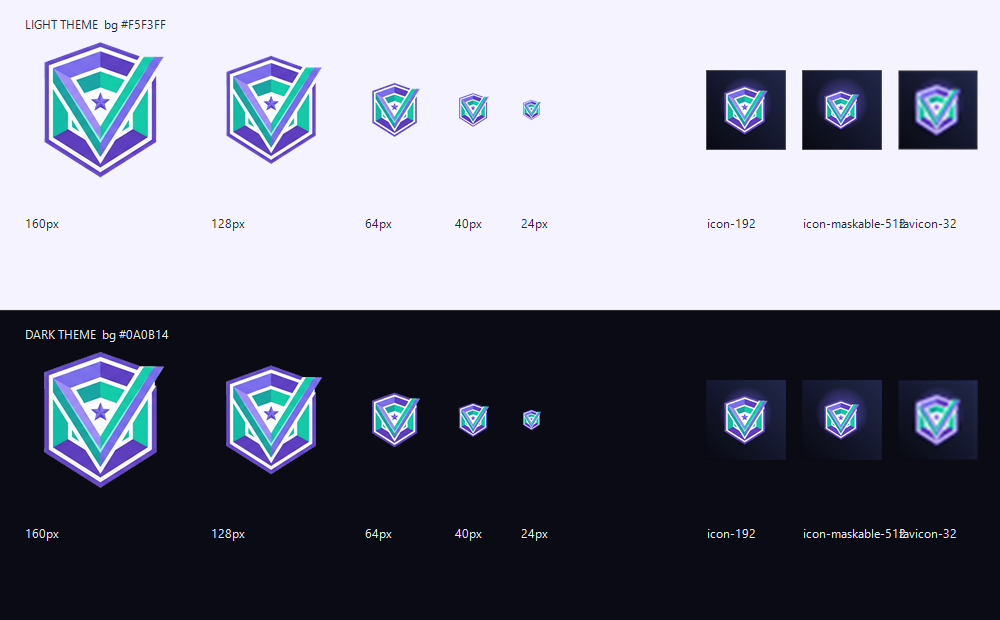
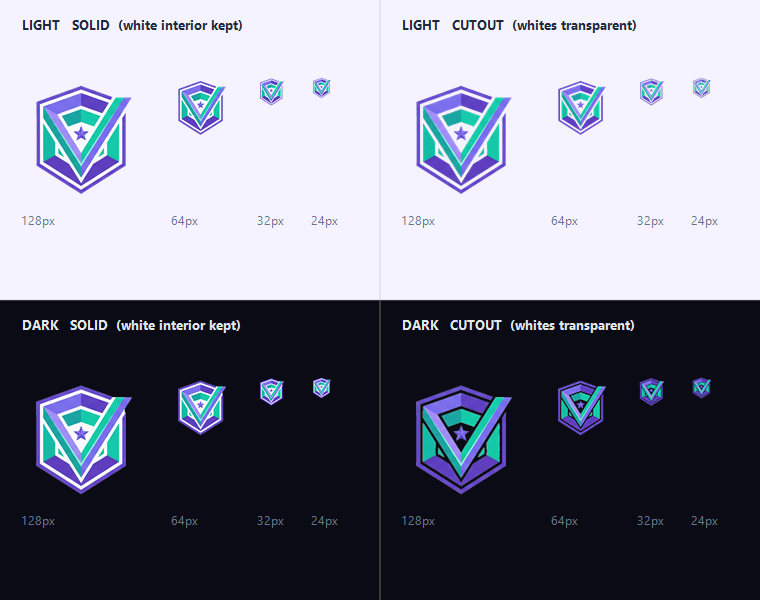
brand: add CUTOUT mark variant, wire navbar/splash to it, bump sw v27
The shield's interior is pure white in the source, the same colour as the washed background it sat on, so the keyed mark kept an opaque interior. Run() now builds both variants from one geometry so the outlines register exactly:

  SOLID  - interior stays opaque, reads as a badge (favicon + app icons)

  CUTOUT - light pixels punched out, page background shows through (navbar + splash)

preview.png is now a SOLID-vs-CUTOUT decision sheet on both themes at 128/64/32/24px. Flipping the navbar back to SOLID is a two-path change in index.html plus a CACHE_NAME bump, documented in brand/README.md.

Also: BrandBuild now prefers a veripresenx-master.png master when present (a real alpha channel beats inferring a mask from a flattened JPEG); fix DrawString arg order in the sheet renderer; MD040/MD060 lint in both brand READMEs.

diff --git a/index.html b/index.html
@@ -19,7 +19,7 @@
 
   <!-- SPLASH SCREEN -->
   <div id="splashScreen">
-    <img src="/brand/mark-256.png" alt="VeriPresenX" class="splash-logo" />
+    <img src="/brand/mark-256-cutout.png" alt="VeriPresenX" class="splash-logo" />
     <span class="splash-text">VeriPresenX</span>
     <span class="splash-hint">Click anywhere to continue...</span>
   </div>
@@ -27,7 +27,7 @@
   <!-- NAVBAR -->
   <header class="navbar">
     <div class="brand">
-      <img src="/brand/mark-64.png" alt="VeriPresenX" class="brand-logo" />
+      <img src="/brand/mark-64-cutout.png" alt="VeriPresenX" class="brand-logo" />
       <span class="brand-text">VeriPresenX</span>
     </div>
 

diff --git a/sw.js b/sw.js
@@ -1,13 +1,13 @@
 // Bump this version string on EVERY deploy so the SW refreshes automatically
-const CACHE_NAME = "veripresenx-static-v26";
+const CACHE_NAME = "veripresenx-static-v27";
 const STATIC_ASSETS = [
   "/",
   "/index.html",
   "/app.js",
   "/style.css",
   "/manifest.json",
-  "/brand/mark-64.png",
-  "/brand/mark-256.png",
+  "/brand/mark-64-cutout.png",
+  "/brand/mark-256-cutout.png",
   "/brand/favicon-32.png",
   "/brand/apple-touch-icon-180.png",
 ];

diff --git a/tools/brand/BrandBuild.Sheet.cs b/tools/brand/BrandBuild.Sheet.cs
@@ -51,11 +51,14 @@ public static partial class BrandBuild
         Log("wrote " + name + " " + new FileInfo(p).Length + " bytes");
     }
 
-    // Contact sheet: the mark at five sizes on BOTH themes plus the icons, so the
-    // keying quality and the icon look can be judged by eye in one image.
-    static void BuildPreview(Bitmap mark, string path)
+    // Decision sheet: SOLID vs CUTOUT side by side, on BOTH themes. Both variants
+    // are built from the same geometry, so the outlines register exactly and the
+    // only thing that changes across the columns is what happens to the shield's
+    // white interior.
+    static void BuildPreview(Bitmap solid, Bitmap cutout, string path)
     {
-        int W = 1000, H = 620, band = H / 2;
+        int cellW = 380, cellH = 300;
+        int W = cellW * 2, H = cellH * 2;
         Bitmap b = new Bitmap(W, H, PixelFormat.Format32bppArgb);
         using (Graphics g = Graphics.FromImage(b))
         {
@@ -65,50 +68,50 @@ public static partial class BrandBuild
             g.PixelOffsetMode = PixelOffsetMode.HighQuality;
             g.TextRenderingHint = System.Drawing.Text.TextRenderingHint.ClearTypeGridFit;
 
-            using (SolidBrush lb = new SolidBrush(Color.FromArgb(255, 245, 243, 255))) g.FillRectangle(lb, 0, 0, W, band);
-            using (SolidBrush db = new SolidBrush(Color.FromArgb(255, 10, 11, 20))) g.FillRectangle(db, 0, band, W, band);
-
             using (Font f = new Font("Segoe UI", 9f))
+            using (Font ft = new Font("Segoe UI", 10f, FontStyle.Bold))
             using (SolidBrush inkL = new SolidBrush(Color.FromArgb(255, 30, 41, 59)))
             using (SolidBrush inkD = new SolidBrush(Color.FromArgb(255, 226, 232, 240)))
+            using (SolidBrush lbl = new SolidBrush(Color.FromArgb(255, 100, 116, 139)))
             {
-                int[] sizes = new int[] { 160, 128, 64, 40, 24 };
-                string[] icons = new string[] { "icon-192.png", "icon-maskable-512.png", "favicon-32.png" };
+                int[] sizes = new int[] { 128, 64, 32, 24 };
+                string[] captions = new string[] { "SOLID  (white interior kept)", "CUTOUT  (whites transparent)" };
 
-                for (int bi = 0; bi < 2; bi++)
+                for (int row = 0; row < 2; row++)
                 {
-                    int top = bi * band;
-                    int cy = top + 110;
-                    int labelY = top + 215;
-                    string cap = bi == 0 ? "LIGHT THEME  bg #F5F3FF" : "DARK THEME  bg #0A0B14";
-                    g.DrawString(cap, f, bi == 0 ? inkL : inkD, 24, top + 16);
-
-                    int x = 24;
-                    foreach (int s in sizes)
+                    bool dark = row == 1;
+                    using (SolidBrush bg = new SolidBrush(dark
+                        ? Color.FromArgb(255, 10, 11, 20)
+                        : Color.FromArgb(255, 245, 243, 255)))
                     {
-                        using (Bitmap m = Resize(mark, s, s))
-                        {
-                            g.DrawImage(m, x, cy - s / 2, s, s);
-                        }
-                        g.DrawString(s + "px", f, bi == 0 ? inkL : inkD, x, labelY);
-                        x += s + 26;
+                        g.FillRectangle(bg, 0, row * cellH, W, cellH);
                     }
 
-                    int ix = 706;
-                    foreach (string ic in icons)
+                    for (int col = 0; col < 2; col++)
                     {
-                        using (Bitmap im = new Bitmap(Path.Combine(Out, ic)))
-                        using (Bitmap rs = Resize(im, 80, 80))
+                        Bitmap m = col == 0 ? solid : cutout;
+                        int ox = col * cellW, oy = row * cellH;
+                        g.DrawString((dark ? "DARK   " : "LIGHT   ") + captions[col], ft,
+                            dark ? inkD : inkL, ox + 20, oy + 16);
+
+                        int x = ox + 20;
+                        foreach (int s in sizes)
                         {
-                            g.DrawImage(rs, ix, cy - 40, 80, 80);
+                            using (Bitmap r = Resize(m, s, s))
+                            {
+                                g.DrawImage(r, x, oy + 76, s, s);
+                            }
+                            g.DrawString(s + "px", f, lbl, x, oy + 212);
+                            x += s + 22;
                         }
-                        g.DrawString(ic.Replace(".png", ""), f, bi == 0 ? inkL : inkD, ix, labelY);
-                        ix += 96;
                     }
                 }
 
-                using (Pen p = new Pen(Color.FromArgb(60, 128, 128, 128)))
-                    g.DrawLine(p, 0, band, W, band);
+                using (Pen p = new Pen(Color.FromArgb(90, 128, 128, 128)))
+                {
+                    g.DrawLine(p, cellW, 0, cellW, H);
+                    g.DrawLine(p, 0, cellH, W, cellH);
+                }
             }
         }
         b.Save(path, ImageFormat.Png);

diff --git a/tools/brand/BrandBuild.cs b/tools/brand/BrandBuild.cs
@@ -17,11 +17,58 @@ public static partial class BrandBuild
     {
         Out = Path.Combine(root, "brand");
         Directory.CreateDirectory(Out);
-        string master = Path.Combine(Out, "veripresenx-master.jpg");
+        // Prefer a PNG master when one has been supplied: a PNG can carry a real
+        // alpha channel, which is strictly better than inferring a mask from a
+        // flattened JPEG. Falls back to the original JPEG master.
+        string master = Path.Combine(Out, "veripresenx-master.png");
+        if (!File.Exists(master)) master = Path.Combine(Out, "veripresenx-master.jpg");
         Log("master exists=" + File.Exists(master));
 
+        // Two masks from one source. SOLID keeps the shield's white interior, so
+        // the mark reads as a badge. CUTOUT punches every light pixel out, so the
+        // white band and the pale interior go transparent and the page background
+        // shows through, leaving only the violet/teal artwork. Both come from the
+        // same geometry, so the outlines register exactly and preview.png can be
+        // read as a like-for-like comparison.
+        Bitmap squareSolid = BuildMark(master, false);
+        Bitmap squareCutout = BuildMark(master, true);
+
+        Bitmap solid1024 = Resize(squareSolid, 1024, 1024);
+        SavePng(solid1024, "veripresenx-mark-1024.png");
+        Bitmap solid256 = Resize(squareSolid, 256, 256);
+        SavePng(solid256, "mark-256.png");
+        Bitmap solid64 = Resize(solid256, 64, 64);
+        SavePng(solid64, "mark-64.png");
+
+        Bitmap cutout1024 = Resize(squareCutout, 1024, 1024);
+        SavePng(cutout1024, "veripresenx-mark-cutout-1024.png");
+        Bitmap cutout256 = Resize(squareCutout, 256, 256);
+        SavePng(cutout256, "mark-256-cutout.png");
+        Bitmap cutout64 = Resize(cutout256, 64, 64);
+        SavePng(cutout64, "mark-64-cutout.png");
+        squareSolid.Dispose(); squareCutout.Dispose();
+        solid256.Dispose(); solid64.Dispose(); cutout256.Dispose(); cutout64.Dispose();
+
+        // Icons are always SOLID: they sit on an opaque navy plate, so a cutout
+        // would merely reveal that plate through the shield.
+        ComposeIcon(solid1024, 512, 0.72f, "icon-512.png");
+        ComposeIcon(solid1024, 192, 0.72f, "icon-192.png");
+        ComposeIcon(solid1024, 512, 0.58f, "icon-maskable-512.png");
+        ComposeIcon(solid1024, 180, 0.72f, "apple-touch-icon-180.png");
+        ComposeIcon(solid1024, 32, 0.74f, "favicon-32.png");
+
+        BuildPreview(solid1024, cutout1024, Path.Combine(Out, "preview.png"));
+        solid1024.Dispose();
+        cutout1024.Dispose();
+        Log("done");
+    }
+
+    // Full pipeline for ONE variant: locate the mark, key it, tighten it, square-pad
+    // it. Returns the square-padded master, still oversized, for the caller to resize.
+    static Bitmap BuildMark(string master, bool cutout)
+    {
         Bitmap src = Load32(master);
-        Log("master dims " + src.Width + "x" + src.Height);
+        Log("master dims " + src.Width + "x" + src.Height + (cutout ? " [cutout]" : " [solid]"));
 
         Rectangle box = FindMarkBox(src);
         Log("mark box x=" + box.X + " y=" + box.Y + " w=" + box.Width + " h=" + box.Height);
@@ -35,7 +82,7 @@ public static partial class BrandBuild
         src.Dispose();
         Log("crop " + crop.Width + "x" + crop.Height);
 
-        KeyBackground(mark);
+        KeyBackground(mark, cutout);
         Rectangle tight = AlphaBox(mark);
         Log("tight x=" + tight.X + " y=" + tight.Y + " w=" + tight.Width + " h=" + tight.Height);
         Bitmap tightBmp = Crop(mark, tight);
@@ -43,24 +90,7 @@ public static partial class BrandBuild
 
         Bitmap square = PadSquare(tightBmp, 0.09f);
         tightBmp.Dispose();
-
-        Bitmap mark1024 = Resize(square, 1024, 1024);
-        SavePng(mark1024, "veripresenx-mark-1024.png");
-        Bitmap mark256 = Resize(square, 256, 256);
-        SavePng(mark256, "mark-256.png");
-        Bitmap mark64 = Resize(mark256, 64, 64);
-        SavePng(mark64, "mark-64.png");
-        square.Dispose(); mark256.Dispose(); mark64.Dispose();
-
-        ComposeIcon(mark1024, 512, 0.72f, "icon-512.png");
-        ComposeIcon(mark1024, 192, 0.72f, "icon-192.png");
-        ComposeIcon(mark1024, 512, 0.58f, "icon-maskable-512.png");
-        ComposeIcon(mark1024, 180, 0.72f, "apple-touch-icon-180.png");
-        ComposeIcon(mark1024, 32, 0.74f, "favicon-32.png");
-
-        BuildPreview(mark1024, Path.Combine(Out, "preview.png"));
-        mark1024.Dispose();
-        Log("done");
+        return square;
     }
 
     // ---------- io ----------

diff --git a/tools/brand/BrandBuild.Keying.cs b/tools/brand/BrandBuild.Keying.cs
@@ -19,7 +19,12 @@ public static partial class BrandBuild
     // white plate behind the shield. Everything the fill cannot reach is the mark
     // -- which is also how the shield's enclosed pale ring survives, sealed in by
     // the violet outline, where a global near-white key would have destroyed it.
-    static void KeyBackground(Bitmap bmp)
+    //
+    // `cutout` picks the alpha policy. false keeps the enclosed whites opaque, so
+    // the shield reads as a solid badge. true punches every non-artwork pixel out,
+    // so the white band and the pale interior go transparent and the page
+    // background shows through, leaving only the violet/teal artwork.
+    static void KeyBackground(Bitmap bmp, bool cutout)
     {
         int w = bmp.Width, h = bmp.Height, n = w * h;
         BitmapData d = bmp.LockBits(new Rectangle(0, 0, w, h), ImageLockMode.ReadWrite, PixelFormat.Format32bppArgb);
@@ -49,6 +54,7 @@ public static partial class BrandBuild
             }
             Log("artwork px " + artCount + " of " + n);
 
+            bool[] artRaw = (bool[])art.Clone(); // classification before closing
             CloseArt(art, w, h, 10);
             int closedCount = 0;
             for (int i = 0; i < n; i++) { if (art[i]) closedCount++; }
@@ -78,9 +84,18 @@ public static partial class BrandBuild
             }
 
             byte[] a0 = new byte[n];
-            int outCount = 0;
-            for (int i = 0; i < n; i++) { if (outside[i]) { a0[i] = 0; outCount++; } else a0[i] = 255; }
-            Log("background reached from border " + outCount + " px; opaque " + (n - outCount));
+            if (cutout)
+            {
+                int cutOpaque = 0;
+                for (int i = 0; i < n; i++) { if (artRaw[i]) { a0[i] = 255; cutOpaque++; } }
+                Log("cutout: opaque " + cutOpaque + " px, whites punched out");
+            }
+            else
+            {
+                int outCount = 0;
+                for (int i = 0; i < n; i++) { if (outside[i]) { a0[i] = 0; outCount++; } else a0[i] = 255; }
+                Log("background reached from border " + outCount + " px; opaque " + (n - outCount));
+            }
 
             // Safety net: drop specks. A grid-line fragment in a darker corner of
             // the master could classify as artwork and survive as an opaque fleck.

diff --git a/brand/README.md b/brand/README.md
@@ -3,36 +3,49 @@
 Every file here except `veripresenx-master.jpg` is **generated** by
 `tools/brand/build.ps1`. Do not hand-edit the outputs — change the master and rebuild:
 
-```
+```powershell
 powershell -ExecutionPolicy Bypass -File tools\brand\build.ps1
 ```
 
 ## Files
 
 | File | Size | Where it is used |
-|---|---|---|
-| `veripresenx-master.jpg` | 2816×1536 | Source artwork (shield + wordmark + tagline). The only hand-authored input. |
-| `veripresenx-mark-1024.png` | 1024² | Transparent archival mark. Not shipped to browsers; source for future native / print use. |
-| `mark-256.png` | 256² | Splash screen — `index.html` `.splash-logo`, displayed at 120 px, so 2× for retina. |
-| `mark-64.png` | 64² | Navbar — `index.html` `.brand-logo`, displayed at 32 px, so 2× for retina. |
+| --- | --- | --- |
+| `veripresenx-master.jpg` | 2816×1536 | Source artwork (shield + wordmark + tagline). The only hand-authored input. A `veripresenx-master.png` beside it takes precedence. |
+| `mark-64-cutout.png` | 64² | **Navbar** — `index.html` `.brand-logo`, displayed at 32 px, so 2× for retina. |
+| `mark-256-cutout.png` | 256² | **Splash screen** — `index.html` `.splash-logo`, displayed at 120 px, so 2× for retina. |
+| `mark-64.png`, `mark-256.png` | 64², 256² | SOLID equivalents of the two above, kept so the navbar and splash can be flipped between variants with a one-line change. |
+| `veripresenx-mark-cutout-1024.png` | 1024² | Archival mark, whites punched out. Not shipped to browsers. |
+| `veripresenx-mark-1024.png` | 1024² | Archival mark, whites kept. Not shipped to browsers. |
 | `favicon-32.png` | 32² | Browser tab (`<link rel="icon">`). |
 | `apple-touch-icon-180.png` | 180² | iOS home screen. Opaque, because iOS composites transparency to black. |
 | `icon-192.png`, `icon-512.png` | 192², 512² | PWA install, `"purpose": "any"`. |
 | `icon-maskable-512.png` | 512² | PWA install, `"purpose": "maskable"` — mark at 58% so it survives the safe-zone crop. |
-| `preview.png` | 1000×620 | QA contact sheet: every size on both themes, plus the icons. |
+| `preview.png` | 760×600 | SOLID vs CUTOUT, side by side, on both themes, at 128 / 64 / 32 / 24 px. |
 
-## Why the app ships the mark, not the lockup
+## Two variants: SOLID and CUTOUT
 
-`index.html` renders the wordmark as **HTML text** — Space Grotesk 700 with a
-teal→violet `background-clip: text` gradient — so only the shield mark is needed as an
-image. The navbar stays legible at any zoom and the splash stays crisp on any DPR
-without shipping a bitmap wordmark or a second asset per theme.
+The shield's interior is pure white (`rgb(255,255,255)`) in the source, which is the same
+colour as the washed background it sits on. Two renders are produced from one geometry:
 
-## Transparency
+- **SOLID** keeps that interior opaque, so the mark reads as a badge.
+- **CUTOUT** punches every light pixel out, so the interior and the white band go
+  transparent and the underlying page shows through.
 
-The mark is transparent and tuned to read on **both** themes (`--bg-base` #F5F3FF in
-light, #0A0B14 in dark), which is why it carries no baked plate.
+On the **light** theme the two are all but indistinguishable — a transparent gap shows
+`#F5F3FF`, which is what the white was sitting on anyway. On the **dark** theme CUTOUT
+becomes an open, neon-like badge where SOLID is a solid one.
 
-The PWA icons are deliberately the opposite: full-bleed and opaque on a navy gradient.
-Android and iOS apply their own mask, and a pre-rounded icon gets double-cropped inside
-an adaptive shape.
+The navbar and splash use **CUTOUT**. The favicon and the app icons use **SOLID**,
+because they sit on an opaque navy plate, where a cutout would merely reveal that plate
+through the shield.
+
+To flip the navbar and splash back to SOLID, change the two paths in `index.html` and
+bump `CACHE_NAME` in `sw.js` (static assets are cache-first, so the version string is
+what forces a refresh):
+
+```text
+/brand/mark-64-cutout.png   ->  /brand/mark-64.png
+/brand/mark-256-cutout.png  ->  /brand/mark-256.png
+```
+

diff --git a/tools/brand/README.md b/tools/brand/README.md
@@ -4,7 +4,7 @@ Rebuilds every image in `brand/` from a single source image — offline, determi
 with no npm / ImageMagick / external tooling. Windows PowerShell 5.1 + .NET
 `System.Drawing`.
 
-```
+```powershell
 powershell -ExecutionPolicy Bypass -File tools\brand\build.ps1
 ```
 
@@ -52,12 +52,17 @@ Every file listed in `brand/README.md`, overwritten on each run.
    the opaque neighbours), then bleed artwork colour 2 px outward so bicubic downscaling
    interpolates colour-to-colour rather than colour-to-light.
 
-5. **Compose** (`ComposeIcon`) — square-pad with a 9% margin, then emit the mark ladder
-   (1024 / 256 / 64), the favicon, the four app icons, and the QA contact sheet.
+5. **Compose** (`ComposeIcon`) — square-pad with a 9% margin, then emit both variant
+   ladders (SOLID and CUTOUT, at 1024 / 256 / 64), the favicon, the four app icons, and
+   the SOLID-vs-CUTOUT decision sheet. `Run` builds both variants from the same geometry
+   so the outlines register exactly and `preview.png` is a like-for-like comparison.
 
 ## Adapting this to a different logo
 
-1. Drop the new artwork in as `brand/veripresenx-master.jpg`.
+1. Drop the new artwork in as `brand/veripresenx-master.jpg`. A
+   `brand/veripresenx-master.png` takes precedence if one is present — and a PNG with a
+   **real alpha channel** is by far the best input, because the mask then comes from the
+   file instead of being inferred, leaving no threshold or closing radius doing any work.
 2. Run it and read the diagnostics it prints: `artwork px`, `silhouette after closing`,
    `components`. A healthy run reports **`components 1`** (one solid mark) and a `tight`
    box that does **not** start at 0,0.
@@ -69,7 +74,7 @@ Every file listed in `brand/README.md`, overwritten on each run.
 ## Files
 
 | File | Role |
-|---|---|
+| --- | --- |
 | `build.ps1` | Runner |
 | `BrandBuild.cs` | `Run` orchestration, pixel IO, mark detection, alpha bounding, square pad, resize |
 | `BrandBuild.Keying.cs` | `KeyBackground` — classification + border flood fill, alpha build |
